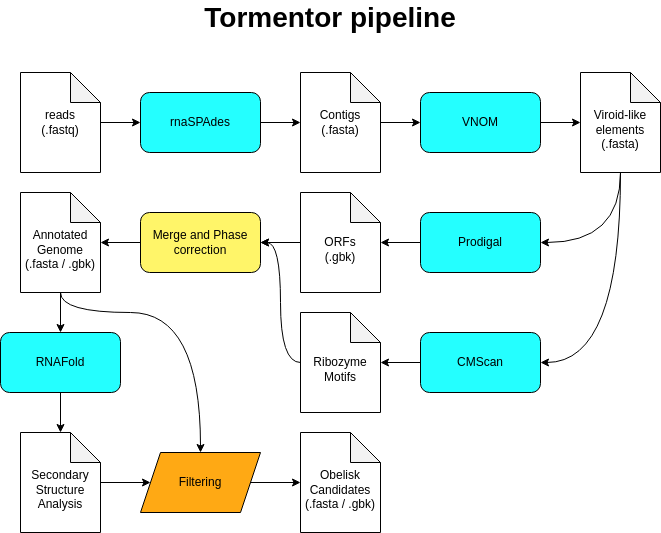
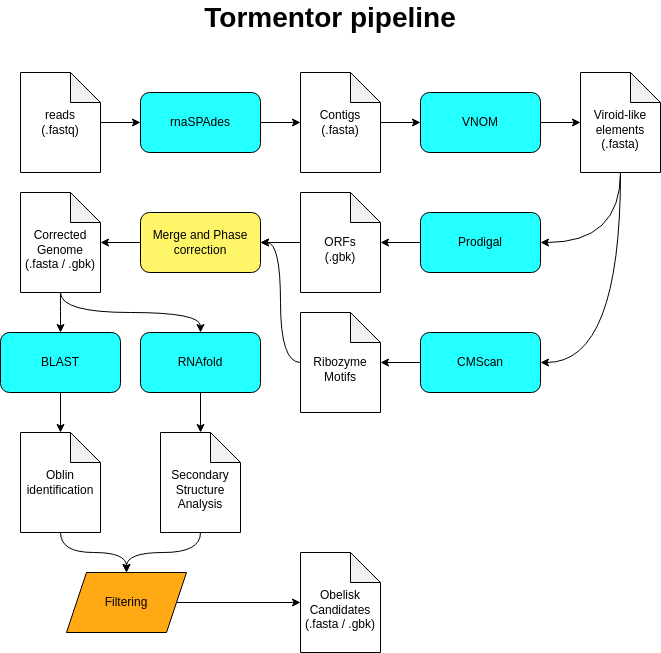
updated annotation with oblin identification

diff --git a/tormentor/main.py b/tormentor/main.py
@@ -1,7 +1,7 @@
 from tormentor.quality_control import run_fastp
 from tormentor.assembly import run_spades, filter_and_rename_spades_transcripts
 from tormentor.vnom import run_vnom, split_vnom_candidates
-from tormentor.annotation import run_prodigal, correct_contig, run_cmscan, add_rfam_sites_to_record
+from tormentor.annotation import run_prodigal, identify_cds, correct_contig, run_cmscan, add_rfam_sites_to_record
 from tormentor.secondary_structure import run_rnafold, run_rnaplot, compute_self_pairing_percent
 from tormentor.logo import logo
 from argparse import ArgumentParser
@@ -20,10 +20,12 @@ def main():
     argument_parser.add_argument('-s', '--minimum-self-pairing-percent', help='minimum percent in secondary structure', default=0.5, type=float)
     argument_parser.add_argument('--threads', help='number of CPU threads to use', default=4)
     argument_parser.add_argument('--min-qual', help='minimal quality of reads in Phred score', default=30)
+    argument_parser.add_argument('--min-identity', help='minimal indetity for oblin identification using BLAST', default=0.7)
+    argument_parser.add_argument('--evalue', help='e-value threshold used by BLAST and cmscan', default=1e-6)
     argument_parser.add_argument('--stranded-type', choices=['fr', 'rf'], default=None, help='stranded library layout (for rnaSPAdes)')
     argument_parser.add_argument('--min-len', default=900, type=int, help='min length for predicted obelisks')
     argument_parser.add_argument('--max-len', default=2000, type=int, help='max length for predicted obelisks')
-    argument_parser.add_argument('--cm-directory', help='rfam directory containing the alpha_body.cm and alpha_tip.com files', required=True)
+    argument_parser.add_argument('--data-directory', help='directory containing the dataset files', required=True)
     arguments = argument_parser.parse_args()
 
     fastp_directory               = os.path.join(arguments.output, 'step_1')
@@ -49,7 +51,7 @@ def main():
     vnom_output  = os.path.join(vnom_directory, 'transcripts_cir.fasta')
     
     # step_1 quality control
-    '''
+    
     print('Step 1: Running quality control ...')
     
     os.system(f'mkdir -p {fastp_directory}')
@@ -89,7 +91,7 @@ def main():
     
     filter_and_rename_spades_transcripts(spades_transcripts, spades_transcripts_clear)
     os.system(f'cp {spades_transcripts_clear} {vnom_input}.fasta')
-    '''
+    
     # step_3: run viroid circRNA detection
 
     print('Step 3: Running viroid-like circRNA prediction ...')
@@ -140,9 +142,18 @@ def main():
         if record is None:
             continue
 
-        sites = run_cmscan(obelisk_candidate_corrected_fasta, prodigal_directory, arguments.cm_directory,  stdout=step_4_log_handler, stderr=step_4_log_handler)
+        record = identify_cds(record, arguments.data_directory + '/proteins/oblins', prodigal_directory, evalue_treshold=arguments.evalue, min_identity=arguments.min_identity)
+
+        oblin_count = 0
+
+        for feature in record.features:
+            if feature.type == 'CDS' and 'oblin' in feature.qualifiers.get('product',''):
+                oblin_count += 1
+        sites = run_cmscan(obelisk_candidate_corrected_fasta, prodigal_directory, arguments.data_directory + '/cms',  stdout=step_4_log_handler, stderr=step_4_log_handler, evalue_threshold=arguments.evalue)
         
         record = add_rfam_sites_to_record(record, sites)
+
+        record.features = sorted(record.features, key=lambda x: int(x.location.start))
 
         SeqIO.write([record], obelisk_candidate_corrected_fasta, 'fasta')
         SeqIO.write([record], obelisk_candidate_corrected_genbank, 'genbank')
@@ -153,13 +164,16 @@ def main():
         run_rnaplot(obelisk_candidate_corrected_rnafold, stdout=step_4_log_handler, stderr=step_4_log_handler)
 
         self_pairing_percent = compute_self_pairing_percent(obelisk_candidate_corrected_rnafold)
-        if self_pairing_percent >= arguments.minimum_self_pairing_percent:
+        if self_pairing_percent >= arguments.minimum_self_pairing_percent and oblin_count > 0:
             os.system(f'cp {obelisk_candidate_corrected_fasta} {arguments.output}/obelisk_{obelisk_id+1}.fasta')
             os.system(f'cp {obelisk_candidate_corrected_fasta}.txt {arguments.output}/obelisk_{obelisk_id+1}.ss.txt')
             os.system(f'cp {obelisk_candidate_corrected_fasta}.txt.pdf {arguments.output}/obelisk_{obelisk_id+1}.ss.pdf')
             os.system(f'cp {obelisk_candidate_corrected_fasta}.txt.svg {arguments.output}/obelisk_{obelisk_id+1}.ss.svg')
             os.system(f'cp {obelisk_candidate_corrected_genbank} {arguments.output}/obelisk_{obelisk_id+1}.gbk')
             final_obelisk_count += 1
+            print('obelisk: ', obelisk_id+1)
+            print(' - self-pairing percent : ', self_pairing_percent)
+            print(' - number of oblin genes: ', oblin_count)
     step_4_log_handler.close()
     print(f'Finished! {final_obelisk_count} obelisks identified!')
     

diff --git a/tormentor/annotation/__init__.py b/tormentor/annotation/__init__.py
@@ -1,5 +1,6 @@
 from Bio import SeqIO
 from Bio.SeqFeature import SeqFeature, FeatureLocation
+from Bio.Blast import NCBIXML
 from BCBio import GFF
 import subprocess
 import glob
@@ -38,8 +39,30 @@ def correct_contig(record, output_file):
         record.annotations['molecule_type'] = 'DNA'
     SeqIO.write([record], output_file, 'genbank')
     return record
+
+def identify_cds(record, protein_database, output_directory, min_identity=0.8, evalue_treshold=1e-10):
+    for f, feature in enumerate(record.features):
+        blast_output_file = os.path.join(output_directory, f'cds_{f}.xml')
+        feature_sequence  = str(feature.location.extract(record.seq))
+        feature_sequence_file = f'{output_directory}/{f}_query.fa'
+        with open(feature_sequence_file, 'w') as writer:
+            writer.write(f'>{f}\n{feature_sequence}\n')
+        subprocess.call(
+            f'blastx -query {feature_sequence_file} -db {protein_database} -outfmt 5 -out {blast_output_file}',
+            shell=True
+        )
+        for blast_record in NCBIXML.parse(open(blast_output_file)):
+            for alignment in blast_record.alignments:
+                identity = alignment.hsps[0].identities / alignment.hsps[0].align_length
+                evalue = alignment.hsps[0].expect
+                if identity >= min_identity and evalue < evalue_treshold:
+                    feature.qualifiers['product'] = alignment.hit_def
+                    break
+            else:
+                feature.qualifiers['product'] = 'hypothetical protein'
+    return record
     
-def run_cmscan(fasta_file, output_directory, cm_directory, threshold=1e-6, stdout=sys.stdout, stderr=sys.stderr):
+def run_cmscan(fasta_file, output_directory, cm_directory, evalue_threshold=1e-6, stdout=sys.stdout, stderr=sys.stderr):
     sites = []
     for cm_file in glob.glob(f'{cm_directory}/*.cm'):
         cm_family = os.path.splitext(os.path.basename(cm_file))[0]
@@ -54,7 +77,7 @@ def run_cmscan(fasta_file, output_directory, cm_directory, threshold=1e-6, stdou
             site['start']  = int(line[85:93].strip(' '))
             site['end']    = int(line[94:102].strip(' '))
             site['strand'] = int(line[107] + '1')
-            if site['evalue'] < threshold:
+            if site['evalue'] < evalue_threshold:
                 sites.append(site)
     return sites
     
